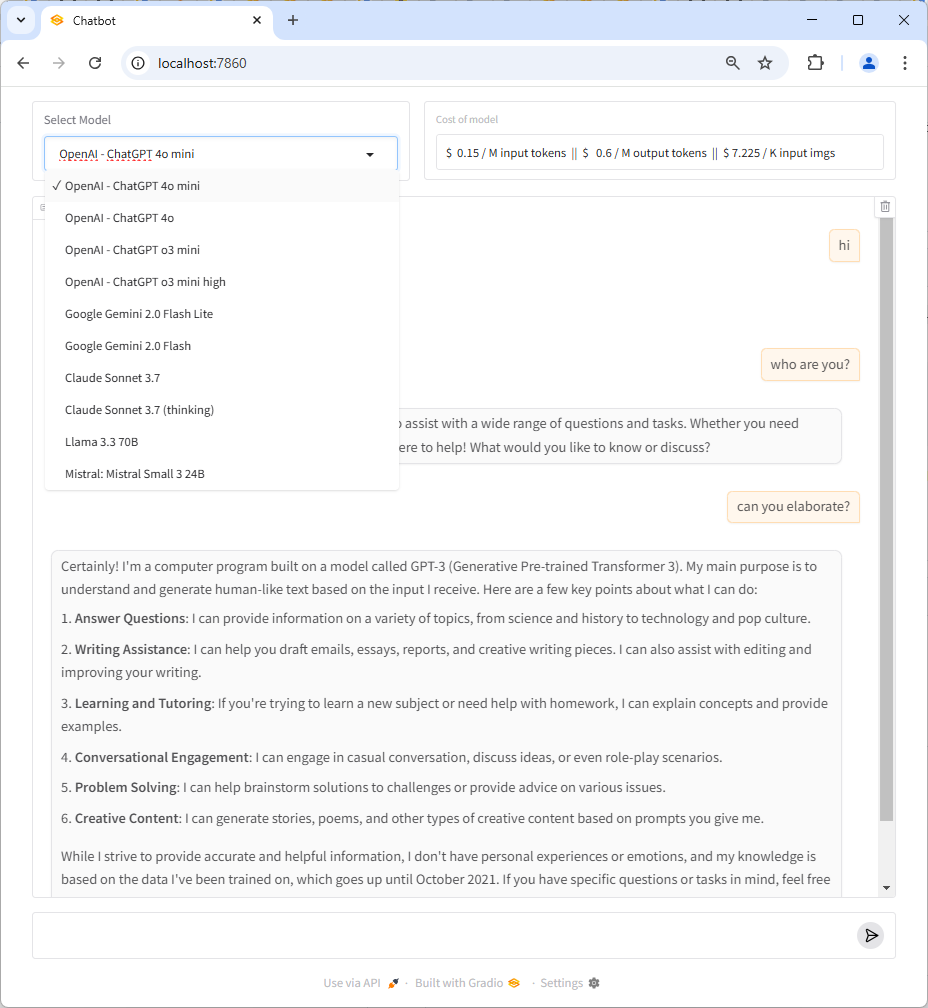
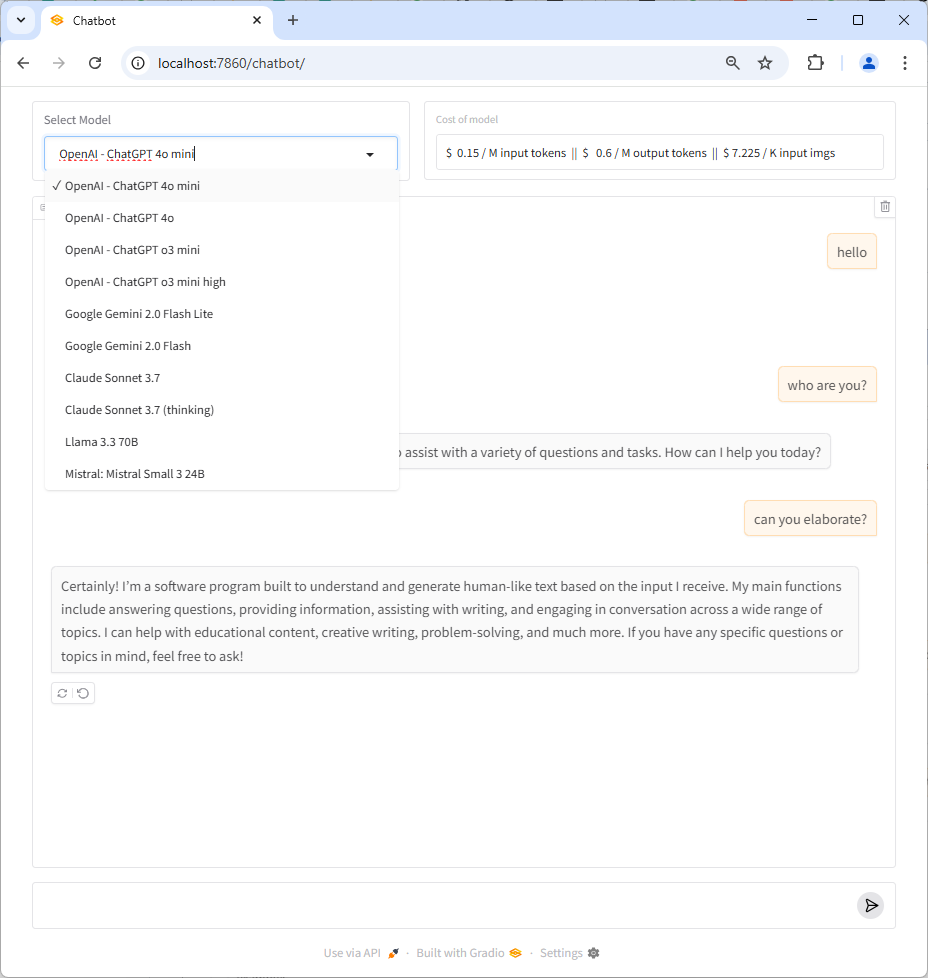
Add Fast API - mount gradio chat interface within FastAPI App

diff --git a/app/server.py b/app/server.py
@@ -1,3 +1,5 @@
+from fastapi import FastAPI
+import uvicorn
 import gradio as gr
 from langchain.schema import AIMessage, HumanMessage
 from utils.langchain_adapter import ChatOpenRouter
@@ -46,6 +48,8 @@ def cost_fn(evt: gr.SelectData):
 
 if __name__ == '__main__':
 
+    app = FastAPI()
+
     model_choices = [(model_conf['display_name'], model_name) for model_name, model_conf in models.items()]
     model_name_default = 'openai/gpt-4o-mini'
 
@@ -65,6 +69,7 @@ if __name__ == '__main__':
             type="messages",
             additional_inputs=[model_selector],
         )
+        app = gr.mount_gradio_app(app, demo, path='/chatbot')
 
     # for simplicity, force the port to be 7860
-    demo.launch(server_name='0.0.0.0', server_port=7860)
+    uvicorn.run(app, host='0.0.0.0', port=7860)

diff --git a/README.md b/README.md
@@ -15,4 +15,4 @@ cp sample.env ~/.ai-agent-key/master.env
 docker-compose up --build
 ```
 
-Then you can access the chatbot at http://localhost:7860. Note that the port number is fixed with this implementation.
+Then you can access the chatbot at http://localhost:7860/chatbot. Note that the port number is fixed with this implementation.
